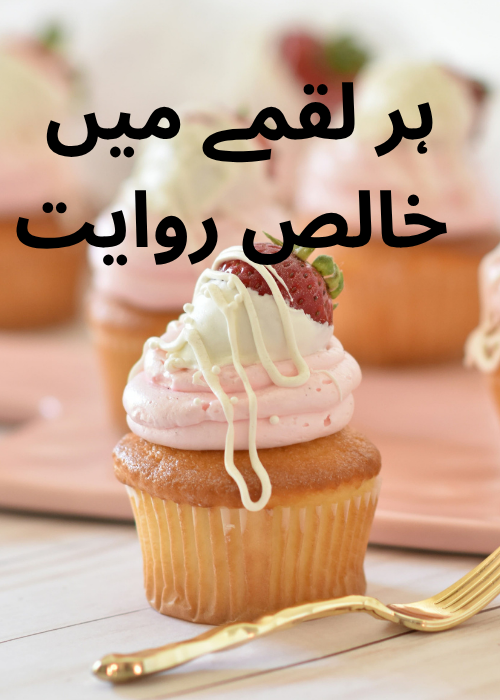
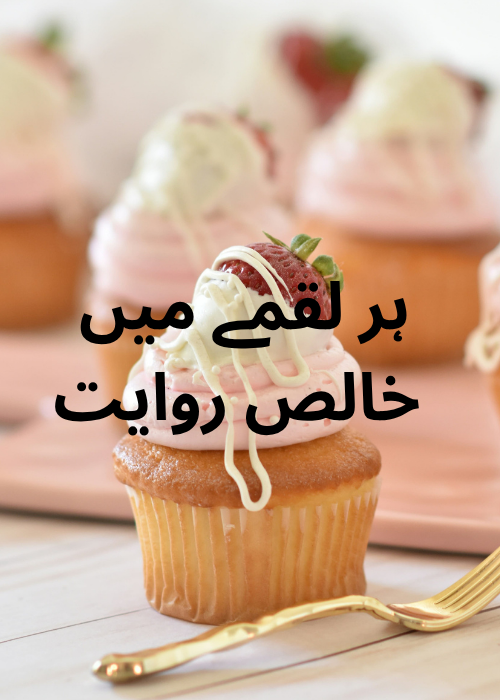
Replace copyrighted images

diff --git a/src/components/Footer.jsx b/src/components/Footer.jsx
@@ -7,11 +7,12 @@ function Footer() {
     
 
     const categories1 = [
-        { name: "Special Sweets", href: "https://order.sindhsweets.com/?cat=409298%7C408985" },
+        { name: "Fast Food",
+            href: "#"
+         },
+        { name: "Special Sweets", href: "#" },
         { name: "Biscuits", href: "#" },
-        { name: "Fresh Cakes", href: "#" },
-        { name: "Nimco", href: "#" },
-        { name: "Rusk", href: "#" }
+        { name: "Fresh Cakes", href: "#" }
     ];
 
     const categories2 = [
@@ -54,17 +55,17 @@ function Footer() {
                 
                 <motion.div className="logo-section flex flex-col items-center gap-4 z-20 mt-8 md:mt-0 border-gray-700 p-4 rounded-full border-2 w-40 h-40 md:w-64 md:h-64 lg:w-80 lg:h-80 aspect-square hover:border-yellow-500" initial={{border: "none", opacity: 0}} whileInView={{border: "2px solid #fff", opacity: 1}} viewport={{once: true}} transition={{delay: 1, duration: 0.5}}>
                 
-                    <motion.img initial={{opacity:0, y: 30}} whileInView={{opacity: 1, y: 0}} viewport={{once: true}} transition={{delay: 1.1, duration: 0.5}} src={logo} alt="Logo" className="w-12 h-12 md:w-24 md:h-24 lg:w-32 lg:h-32 object-cover rounded-full" />
+                    <motion.img initial={{opacity:0, y: 30}} whileInView={{opacity: 1, y: 0}} viewport={{once: true}} transition={{delay: 1.1, duration: 0.5}} src={logo} alt="Logo" className="w-12 h-12 md:w-24 md:h-24 lg:w-32 lg:h-32 object-cover" />
 
                     <motion.p initial={{y: -30, opacity: 0}} whileInView={{y: 0, opacity: 1}} viewport={{once: true}} transition={{delay: 1.2, duration: 0.5}} className="logo-text text-center text-[clamp(0.6rem,2.2vw,2.5rem)] font-heading">
-                        Sindh Sweets
+                        Sweet Bakers
                     </motion.p>
 
                     <div className="social-icons flex gap-4 mt-4">
-                        <a href="https://www.facebook.com/Sindhsweets/?ref=page_internal" className="hover:text-gray-400 transition-all duration-300 w-8 h-8 flex items-center justify-center rounded-full border-2 border-gray-400 hover:border-yellow-500 hover:bg-yellow-700 hover:text-white">
+                        <a href="https://www.facebook.com" className=" transition-all duration-300 w-8 h-8 flex items-center justify-center rounded-full border-2 border-gray-400 hover:border-yellow-500 hover:bg-yellow-700 hover:text-white">
                             <FontAwesomeIcon icon={faFacebook} />
                         </a>
-                        <a href="https://www.instagram.com/sindhsweets/" className="hover:text-gray-400 transition-all duration-300 w-8 h-8 flex items-center justify-center rounded-full border-2 border-gray-400 hover:border-yellow-500 hover:bg-yellow-700 hover:text-white">
+                        <a href="https://www.instagram.com" className="hover:text-gray-400 transition-all duration-300 w-8 h-8 flex items-center justify-center rounded-full border-2 border-gray-400 hover:border-yellow-500 hover:bg-yellow-700">
                             <FontAwesomeIcon icon={faInstagram} />
                         </a>
                     </div>
@@ -72,12 +73,12 @@ function Footer() {
 
                 <div className="contact-section flex flex-col items-center gap-4 z-20 mt-8  border-gray-700 m-12" >
                     <h3 className="text-base md:text-lg lg:text-xl font-bold mb-6 font-heading">Contact Us</h3>
-                    <p id="phone" className='contact-text '><span className="mx-2 text-yellow-500">Phone:</span><a href="tel:(021) 35248683" className="hover:text-gray-400 transition-all duration-300  mb-6">(021) 35248683</a></p>
+                    <p id="phone" className='contact-text '><span className="mx-2 text-yellow-500">Phone:</span><a href="tel:+92229876" className="hover:text-gray-400 transition-all duration-300  mb-6">+92-2287658</a></p>
 
-                    <p className='mb-6 contact-text'><span className="text-yellow-500 mx-2">Email:</span>
-                        <a href="mailto:info@sindhsweets.com" className="hover:text-gray-400 transition-all duration-300 ">
-                            sindhsweets@hotmail.com
-                        </a>
+                    <p className='mb-6 email-text'><span className="text-yellow-500 mx-2">Email:</span>
+                    <a href="mailto:sweetbakers@email.com" className="hover:text-gray-400 transition-all duration-300">
+                        sweetbakers@email.com
+                    </a>
                     </p>
                 </div>
 

diff --git a/src/components/About.jsx b/src/components/About.jsx
@@ -5,20 +5,20 @@ import { motion } from 'framer-motion';
 function About() {
     return (
         <section className="about-section py-6 md:py-12 lg:py-24 px-4 bg-gray-100 flex flex-col md:flex-row " id="about">
-            <motion.div initial={{ opacity: 0, x: "-100%" }} whileInView={{ opacity: 1, x: 0 }} viewport={{once: true}} transition={{delay:0.1, duration: 1}} className="about-image-container w-full md:w-1/2 mb-8 md:mb-0">
-                <img src={AboutImage} alt="About Sindh Sweets" className="w-full h-full object-cover" />
+            <motion.div initial={{ opacity: 0, x: "-100%" }} whileInView={{ opacity: 1, x: 0 }} viewport={{once: true}} transition={{delay:0.1, duration: 1}} className="about-image-container w-[80vw] flex items-center :max-h-[500px] md:max-h-max justify-center overflow-hidden md:w-1/2 mb-8 md:mb-0 ">
+                <img src={AboutImage} alt="About Sweet Bakers" className="w-full h-auto object-contain" />
             </motion.div>
 
             <motion.div initial={{ opacity: 0, x: "100%" }} whileInView={{ opacity: 1, x: 0 }} viewport={{once: true}} transition={{delay:0.2, duration: 1.4}} className="container mx-auto w-full md:w-1/2 p-6">
-                <h2 className="text-[clamp(0.5rem,2vw,3rem)] font-bold mb-6 text-orange-500 font-heading">New Famous</h2>
+                <h2 className="text-[clamp(0.5rem,2vw,3rem)] font-bold mb-6 text-orange-500 font-heading">Sweet Bakers</h2>
                 <h3 className="text-[clamp(0.8rem,2.5vw,4rem)] mb-4 text-center font-bold font-heading">About us</h3>
                 <p className="text-[clamp(0.4rem,1.6vw,2rem)] text-gray-700 mb-4 first-letter:text-xl md:first first-letter:font-bold first-letter:text-orange-500 first-letter:mr-3 first-letter:float-left font-bold">
-Sindh Sweets Bakery, nestled in the heart of Karachi, is a culinary haven that epitomizes the rich tradition of Sindhi cuisine. With a legacy spanning decades, our establishment is renowned for crafting delectable sweets, savory snacks, and mouthwatering pastries. Our commitment to quality, authentic flavors, and warm hospitality has made us a beloved institution in Karachi's culinary landscape. Join us on a delightful journey through the tastes of Sindh, where every bite tells a story of tradition and taste.
+Sweet Bakers in Pakistan is your destination for fresh bakery items, delicious sweets, and savory treats. We combine tradition with quality to deliver flavors you’ll always come back for.
                 </p>
                 <p className="text-[clamp(0.4rem,1.5vw,2rem)] text-gray-700 mb-4 font-bold first-letter:text-xl md:first first-letter:font-bold first-letter:text-orange-500 first-letter:mr-3 first-letter:float-left ">
-                    We take pride in our wide variety of sweets, ranging from classic favorites like Gulab Jamun and Jalebi to unique creations that blend traditional recipes with modern twists. Each sweet is crafted with care and attention to detail, ensuring that every bite is a delightful experience.
+                    From traditional sweets like Gulab Jamun and Chocolate Cakes to fast food favorites like zinger burgers, loaded fries, and chicken tandoori, our menu has something for everyone. Every item is crafted with care to deliver bold flavors and a satisfying experience.
                 </p>
-                <div className="flex gap-4 mt-6">
+                <div className="flex gap-4 mt-6 md:mt-12">
 
                     <motion.div initial={{opacity: 0, y: 20}} whileInView={{opacity: 1, y: 0}} viewport={{once: true}} transition={{delay: 0.3, duration: 1}} className="flex w-1/2 items-start">
                     <img src={aboutImage2} alt="Sindh Sweets food icon" className="w-1/6 h-auto object-cover rounded-lg shadow-md" />

diff --git a/src/components/header.jsx b/src/components/header.jsx
@@ -26,10 +26,10 @@ const navVariables = [{
         name: "Contact"
     },
     {
-        href: "https://order.sindhsweets.com/",
+        href: "#order",
         name: "Order Online"
     }
-    ];
+    ];      
 
 
 
@@ -79,7 +79,7 @@ const [isOpen, setIsOpen] = useState(false);
             <HamburgerMenu menuItems={navVariables} isOpen={isOpen} toggleMenu={() => setIsOpen(!isOpen)} />
             <div className="logo-container">
 
-            <img src={logo} alt="Sindh Sweets Logo" className="logo h-10 md:h-16 lg:h-28 rounded-full" />
+            <img src={logo} alt="Sindh Sweets Logo" className="logo h-10 md:h-16 lg:h-28" />
 
             </div>
             
@@ -124,11 +124,11 @@ function Header() {
             <motion.div className="header-content mt-24 md:mt-36  lg:mt-52  p-4 md:p-12 flex  items-center justify-center md:items-start md:justify-start gap-12 sha" initial={{ opacity: 0, y: 50 }} animate={{ opacity: 1, y: 0}} transition={{duration: 1, delay: 0.3}}>
                 <div className="content flex flex-col items-start justify-start shadow-md shadow-slate-500 bg-slate-900 p-6">
                 <h1 className="text-[clamp(0.6rem,2vw,3rem)] font-heading text-gray-100 mb-4 ">
-                    <span className='text-[clamp(0.4rem,2vw,1.5rem)]'>🍩</span> Welcome to New Famous Bakers & Fast Food <span className='text-[clamp(0.4rem,2vw,1.5rem)]'>🍩</span></h1>
+                    <span className='text-[clamp(0.4rem,2vw,1.5rem)]'>🍩</span> Welcome to Sweet Bakers & Fast Food <span className='text-[clamp(0.4rem,2vw,1.5rem)]'>🍩</span></h1>
                 <h2 className="text-[clamp(0.7rem,4vw,3rem)] text-gray-100 mb-6 font-heading font-bold ">Find Your Perfect Healthy & Delicious Meal</h2>
 
 
-                <p className="text-gray-100 mb-12 w-full mr-24 text-[clamp(0.6rem,2vw,1.25rem)]">New Famous Bakers & Fast Food, located in the heart of Karachi, is a trusted name known for its exceptional taste and quality. With years of excellence, we serve delicious sweets, freshly baked delights, and flavorful fast food—crafted to satisfy every craving.</p>
+                <p className="text-gray-100 mb-12 w-full mr-24 text-[clamp(0.6rem,2vw,1.25rem)]">Sweet Bakery & Fast Food, located in the heart of Pakistan, is a trusted name known for its exceptional taste and quality. With years of excellence, we serve delicious sweets, freshly baked delights, and flavorful fast food—crafted to satisfy every craving.</p>
 
                 </div>
 

diff --git a/src/components/menu.jsx b/src/components/menu.jsx
@@ -7,27 +7,27 @@ import image5 from '../assets/image5.png';
 import image6 from '../assets/image6.png';
 import { motion } from 'framer-motion';
 const dishes = [
-    { name: "Kulfi", 
+    { name: "Zinger Burger", 
       image: image1,
       id : 1
     },
-    { name: "Kheer",
+    { name: "Cake",
       image: image2,
       id : 2
     },
-    { name: "Gajar Ka Halwa",
+    { name: "Cheese Fries",
       image: image3,
       id : 3
     },
-    { name: "Aloo Samosa",
+    { name: "Tea",
       image: image4,
       id : 4
     }, 
-    { name: "Khoya Laddu",
+    { name: "Tanduri Chicken",
       image: image5,
       id : 5
     },
-    { name: "Cake",
+    { name: "Fruit Chaat",
       image: image6,
       id : 6
     }
@@ -37,13 +37,13 @@ function Menu() {
     return (
         <section id="menu" className="menu-section py-20 bg-gray-100">
             <div className="container mx-auto px-4">
-                <h2 className="text-[clamp(0.8rem,3vw,4rem)] font-bold text-center mb-12 font-heading">Find Your Favorite Item</h2>
+                <h2 className="text-[clamp(0.8rem,3vw,4rem)] font-bold text-center mb-12 font-heading">Our Menu</h2>
                 <div className="grid grid-cols-1 sm:grid-cols-2 md:grid-cols-3 gap-8">
                     {dishes.map((dish) => (
                         <div key={dish.id} className="menu-item bg-white relative rounded-lg shadow-md overflow-hidden">
                             <motion.div initial={{ opacity: 0, y: 20 }} whileInView={{ opacity: 1, y: 0 }} transition={{ duration: 0.5, delay: dishes.indexOf(dish) * 0.2 }} viewport={{once: true}} className="relative">
 
-                            <img src={dish.image} alt={`Menu Item ${dish.id}`} className="w-full h-full object-cover z-0" />
+                            <img src={dish.image} alt={`Menu Item ${dish.id}`} className="w-full  h-full  object-cover z-0 max-h-[400px]" />
                             </motion.div>
                         <div className="text-center p-4">
                             <h3 className="text-xl font-bold mb-2 font-heading">{dish.name}</h3>

diff --git a/src/App.jsx b/src/App.jsx
@@ -4,7 +4,6 @@ import './App.css'
 import Header from './components/header';
 import About from './components/About';
 import Menu from './components/menu';
-import Gallary from './components/gallary';
 import Footer from './components/Footer';
 function App() {
   
@@ -14,7 +13,6 @@ function App() {
       <Header />
       <About />
       <Menu />
-      <Gallary />
       <Footer />
     </main>
   )
